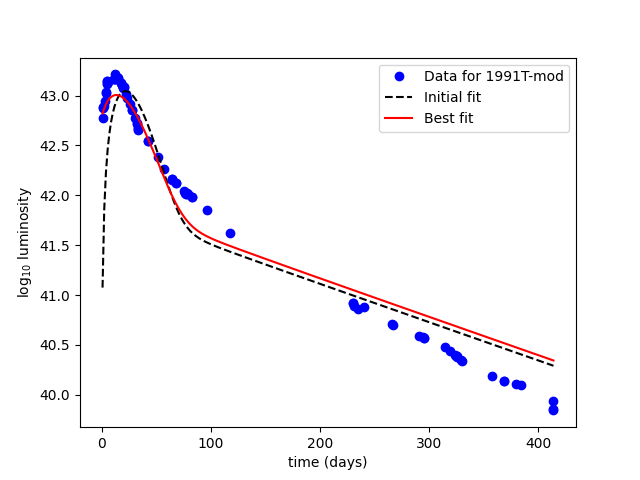
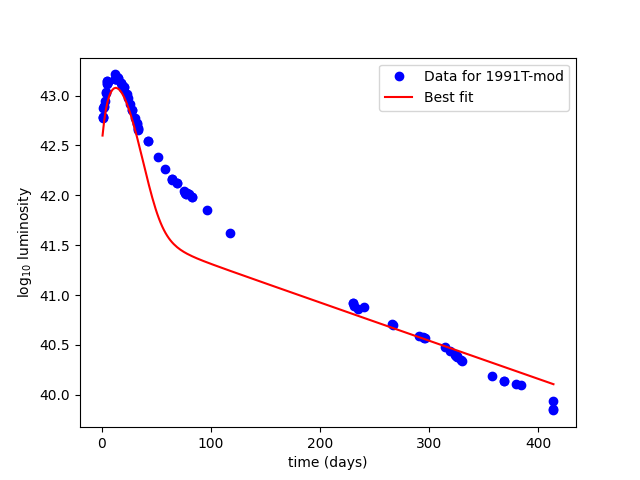
Final
...hopefully

diff --git a/Fitter.py b/Fitter.py
@@ -50,7 +50,9 @@ def fit(data: str, data_skip: int, kappa_function: callable,
     params.add(name="v_sc", value=vsc_init, min=vsc_min, max=vsc_max)
     params.add(name="mni_minus_m", value=1, vary=True, min=1e-12)
     # params.add(name="m_ni", value=mni_init, min=mni_min, max=mni_max)
-    params.add(name="m_ni", expr='0.2*m + mni_minus_m')  # max value of m_ni is 0.2*m
+    # params.add(name="m_ni", expr='0.5*m + mni_minus_m')  # max value of m_ni is 0.5*m
+    params.add(name="mni_factor", min=0.0001, max=0.5)
+    params.add(name="m_ni", expr='m * mni_factor')
     params.add(name="shift", value=500, min=1, max=15 * day2sec)
     # ======================================== #
 
@@ -99,7 +101,7 @@ def fit(data: str, data_skip: int, kappa_function: callable,
 
         fig, ax = plt.subplots(1, 1)
         ax.plot(time / day2sec, log_lum, 'bo', label=f"Data for {data.split('/')[1].split('.')[0].split('_')[0]}")
-        ax.plot(smooth_times / day2sec, init_result, 'k--', label="Initial fit")
+        # ax.plot(smooth_times / day2sec, init_result, 'k--', label="Initial fit")
         ax.plot(smooth_times / day2sec, best_result, 'r-', label="Best fit")
         ax.set_xlabel("time (days)")
         ax.set_ylabel(r"log$_{10}$ luminosity")

diff --git a/main2.py b/main2.py
@@ -9,6 +9,7 @@ files = [
     "data/2011fe_bolom.txt",  # Type Ia
     "data/1994D_bolom.txt",   # Type Ia
     "data/1991T_bolom.txt",  # Type Ia
+    "data/1991T-mod_bolom.txt" # Type Ia - removed very late time
 ]
 
 for file in files:
@@ -34,14 +35,14 @@ for file in files:
 
 
 for file in files:
-    m_init = 7*m_sun
-    vsc_init = 1e9
-    data_skip = 3
+    m_init = 1.4*m_sun
+    vsc_init = 0.6e9
+    data_skip = 1
     tries = 0
     while True:
         try:
             Fitter.fit(file, data_skip=data_skip, kappa_function=kappa_const,
-                       m_init=m_init, vsc_init=vsc_init, m_max=40*m_sun)
+                       m_init=m_init, vsc_init=vsc_init, m_max=2*m_sun)
         except OverflowError:  # something went bad
             if tries > 10:
                 print("Giving up...")

diff --git a/main.py b/main.py
@@ -42,7 +42,7 @@ for file in files:
 for file in files:
     m_init = 7*m_sun
     vsc_init = 1e9
-    data_skip = 3
+    data_skip = 2
     tries = 0
     while True:
         try:
